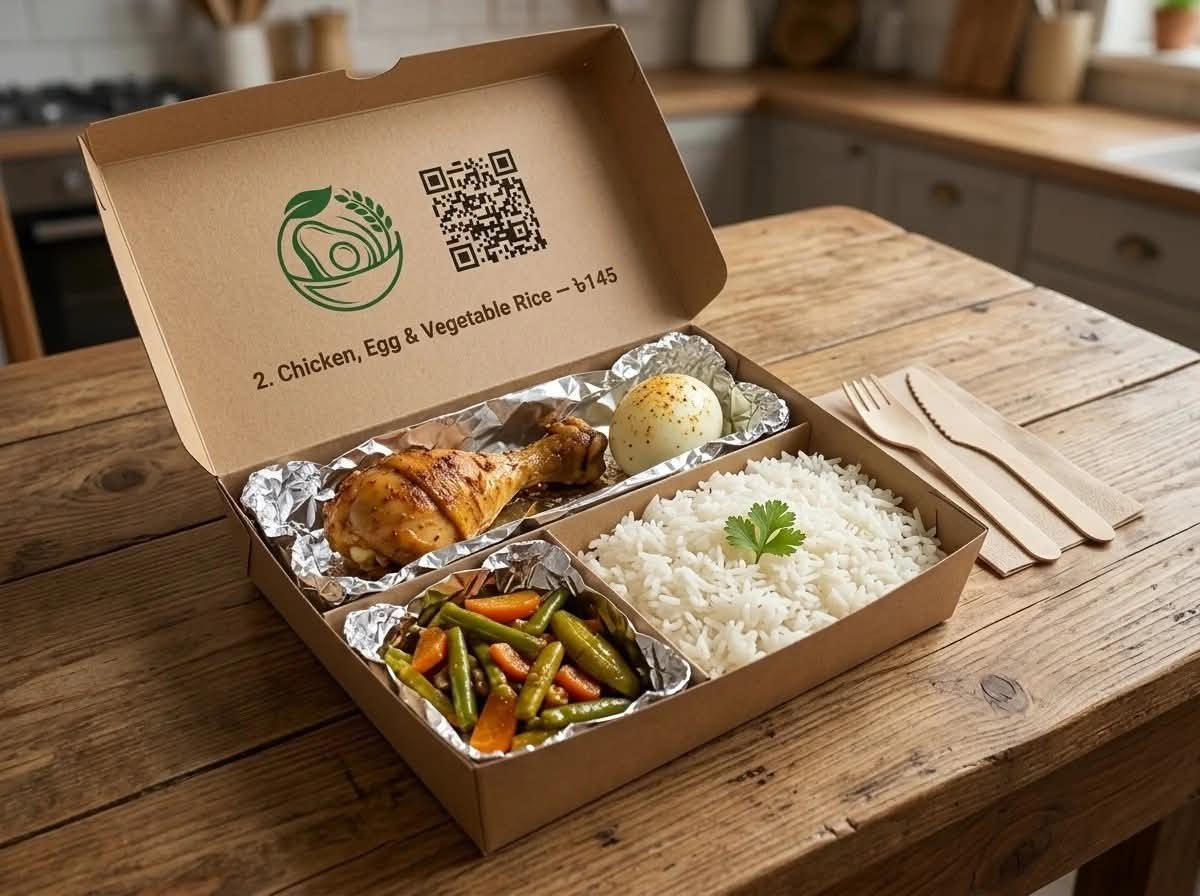
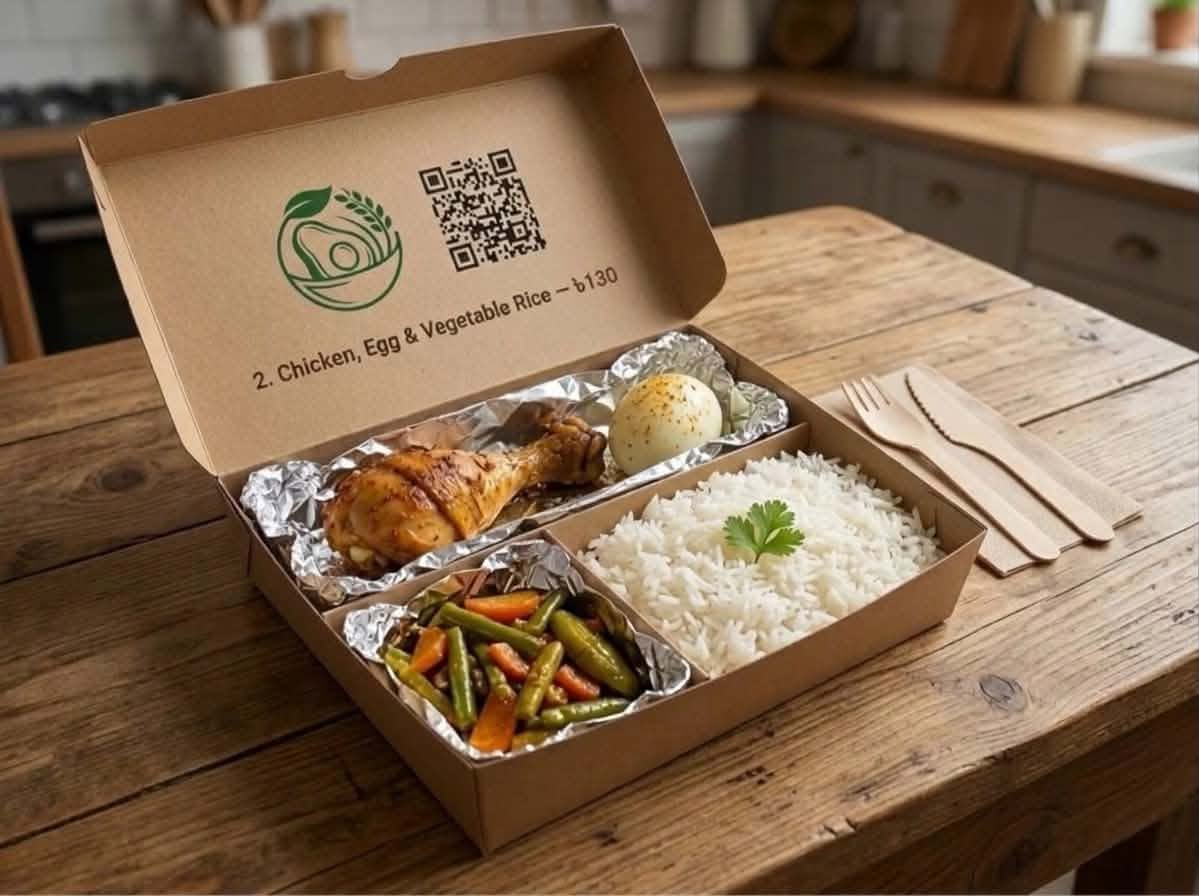
Food images has been updated.

diff --git a/index.html b/index.html
@@ -9,7 +9,7 @@
   <link rel="preconnect" href="https://fonts.googleapis.com">
   <link rel="preconnect" href="https://fonts.gstatic.com" crossorigin>
   <link href="https://fonts.googleapis.com/css2?family=DM+Mono:wght@400;500&family=Figtree:wght@400;500;600;700;800&family=Fraunces:ital,opsz,wght,SOFT,WONK@0,9..144,300..700,0..100,0..1;1,9..144,300..700,0..100,0..1&family=Hind+Siliguri:wght@400;500;600&display=swap" rel="stylesheet">
-  <link rel="stylesheet" href="assets/css/style.css?v=18">
+  <link rel="stylesheet" href="assets/css/style.css?v=19">
 </head>
 <body data-page="home">
   <header id="site-header"></header>
@@ -82,19 +82,19 @@
           <h2 data-split style="margin:18px 0 22px">The food you love,<br><em>made kinder to you.</em></h2>
           <p class="lede" data-reveal>Nutri Café isn't a diet. It's the everyday campus meal, rebuilt so it fuels you instead of weighing you down.</p>
           <ul class="pillars">
-            <li data-reveal><span class="pi" style="--c:var(--turmeric)"><svg viewBox="0 0 24 24" fill="none" stroke="currentColor" stroke-width="2" stroke-linecap="round"><path d="M12 3c-3.5 5-5 7.6-5 10a5 5 0 0 0 10 0c0-2.4-1.5-5-5-10z"/></svg></span><div><b>Less oil, measured</b><p>Every box gets a measured spoon of oil, not a pour. Our lunches use 10–12 ml; the salad bowl uses none.</p></div></li>
+            <li data-reveal><span class="pi" style="--c:var(--turmeric)"><svg viewBox="0 0 24 24" fill="none" stroke="currentColor" stroke-width="2" stroke-linecap="round"><path d="M12 3c-3.5 5-5 7.6-5 10a5 5 0 0 0 10 0c0-2.4-1.5-5-5-10z"/></svg></span><div><b>Less oil, measured</b><p>Every box gets a measured spoon of oil, not a pour. Our lunches use 8–12 ml; the salad bowl uses none.</p></div></li>
             <li data-reveal style="--d:.06s"><span class="pi" style="--c:var(--protein)"><svg viewBox="0 0 24 24" fill="none" stroke="currentColor" stroke-width="2"><circle cx="12" cy="12" r="8"/><path d="M12 4v8l6 5"/></svg></span><div><b>Balanced plates</b><p>Measured rice, a real portion of protein and vegetables, guided by Bangladesh's Food-Based Dietary Guidelines.</p></div></li>
             <li data-reveal style="--d:.12s"><span class="pi" style="--c:var(--fat)"><svg viewBox="0 0 24 24" fill="none" stroke="currentColor" stroke-width="2" stroke-linecap="round"><rect x="5" y="3" width="14" height="18" rx="2"/><path d="M8.5 8h7M8.5 12h7M8.5 16h4"/></svg></span><div><b>Food you can read</b><p>Calories, protein, carbs, fat and fibre beside every plate, so choosing well takes seconds.</p></div></li>
             <li data-reveal style="--d:.18s"><span class="pi" style="--c:var(--fibre)"><svg viewBox="0 0 24 24" fill="none" stroke="currentColor" stroke-width="2" stroke-linecap="round"><path d="M4 13c4 0 6-2 8-6 2 4 4 6 8 6M6 19h12"/></svg></span><div><b>Healthy every day, not once</b><p>From ৳50 - because good food only helps if you can afford to eat it daily.</p></div></li>
           </ul>
         </div>
         <div class="swap-card" data-reveal="scale" id="swap-card">
-          <span class="eyebrow">Same chicken rice, two kitchens</span>
+          <span class="eyebrow">Same chicken &amp; egg rice, two kitchens</span>
           <div class="sw-row heavy"><div class="sw-top"><span>Cooked with 3 tablespoons of oil</span><b data-s="heavy-k">0 kcal</b></div><div class="sw-bar"><i data-s="heavy-bar"></i></div><small data-s="heavy-f"></small></div>
-          <div class="sw-row light"><div class="sw-top"><span>Nutri Café: measured 10 ml</span><b data-s="light-k">0 kcal</b></div><div class="sw-bar"><i data-s="light-bar"></i></div><small data-s="light-f"></small></div>
-          <div class="sw-save"><b data-s="save">0</b><span>fewer calories, from the oil alone - with the same rice, chicken and vegetables.</span></div>
+          <div class="sw-row light"><div class="sw-top"><span>Nutri Café: measured 12 ml</span><b data-s="light-k">0 kcal</b></div><div class="sw-bar"><i data-s="light-bar"></i></div><small data-s="light-f"></small></div>
+          <div class="sw-save"><b data-s="save">0</b><span>fewer calories, from the oil alone - with the same rice, chicken, egg and vegetables.</span></div>
           <p class="note" style="margin:18px 0 0">Both calculated with our nutrition calculator from the same weighed recipe; only the oil changes.</p>
-          <a class="link-arrow" href="calculator.html?dish=chicken-rice" style="margin-top:14px">Try it yourself in the calculator <svg width="16" height="16" viewBox="0 0 24 24" fill="none" stroke="currentColor" stroke-width="2.2"><path d="M5 12h14M13 6l6 6-6 6"/></svg></a>
+          <a class="link-arrow" href="calculator.html?dish=egg-chicken-veggie-rice" style="margin-top:14px">Try it yourself in the calculator <svg width="16" height="16" viewBox="0 0 24 24" fill="none" stroke="currentColor" stroke-width="2.2"><path d="M5 12h14M13 6l6 6-6 6"/></svg></a>
         </div>
       </div>
     </section>
@@ -262,10 +262,10 @@
   <footer id="site-footer"></footer>
 
   <script src="https://cdn.jsdelivr.net/npm/lenis@1.1.13/dist/lenis.min.js"></script>
-  <script src="assets/js/site.js?v=18"></script>
-  <script src="assets/js/data.js?v=18"></script>
-  <script src="assets/js/render.js?v=18"></script>
-  <script src="assets/js/posts.js?v=18"></script>
-  <script src="assets/js/home.js?v=18"></script>
+  <script src="assets/js/site.js?v=19"></script>
+  <script src="assets/js/data.js?v=19"></script>
+  <script src="assets/js/render.js?v=19"></script>
+  <script src="assets/js/posts.js?v=19"></script>
+  <script src="assets/js/home.js?v=19"></script>
 </body>
 </html>

diff --git a/assets/js/data.js b/assets/js/data.js
@@ -257,33 +257,36 @@
       allergens: ["Milk (yogurt)", "Wheat (gluten)"],
     },
     {
-      slug: "chicken-rice",
-      name: "Chicken Rice",
-      bn: "চিকেন রাইস",
+      slug: "chicken-egg-salad",
+      name: "Chicken, Egg & Salad",
+      bn: "মুরগি, ডিম ও সালাদ",
       meal: "Lunch",
-      plate: "Balanced",
+      plate: "High-Protein",
       price: 99,
-      img: "chicken-veg-rice.jpg",
-      blurb: "Home-style chicken curry with a measured plate of rice and vegetables.",
-      story: "The lunch most students already love, rebuilt with a measured portion. The curry uses a fixed amount of oil, the rice is portioned by weight, and seasonal vegetables fill the rest of the plate - so the number on the label is the number on your plate.",
+      img: "chicken-egg-salad.jpg",
+      blurb: "Spiced chicken and a boiled egg with rice and a fresh cucumber-carrot salad.",
+      story: "A lighter-feeling lunch that still fills you up. A spiced chicken piece and a boiled egg sit beside a weighed portion of rice, with a crisp salad of cucumber and carrot and a wedge of lemon to squeeze over it.",
       ingredients: [
         { id: "rice_cooked", amount: 200, unit: "g" },
         { id: "chicken_bonein", amount: 125, unit: "g" },
-        { id: "mixed_veg", amount: 100, unit: "g" },
-        { id: "onion", amount: 20, unit: "g" },
+        { id: "egg", amount: 1, unit: "piece" },
+        { id: "cucumber", amount: 60, unit: "g" },
+        { id: "carrot", amount: 40, unit: "g" },
+        { id: "lemon", amount: 1, unit: "tsp" },
+        { id: "onion", amount: 15, unit: "g" },
         { id: "garlic", amount: 5, unit: "g" },
         { id: "ginger", amount: 5, unit: "g" },
         { id: "spice_mix", amount: 4, unit: "g" },
-        { id: "soybean_oil", amount: 10, unit: "ml" },
+        { id: "soybean_oil", amount: 8, unit: "ml" },
       ],
       steps: [
-        "Wash and cook the rice; portion 200 g of cooked rice per box.",
-        "Sauté onion, ginger and garlic in a measured 10 ml of oil.",
-        "Add spices and the chicken; cook covered until tender and the gravy thickens.",
-        "Lightly cook the seasonal vegetables with salt and turmeric.",
-        "Serve chicken, rice and vegetables in separate sections of the box.",
+        "Marinate the chicken with onion, ginger, garlic, spices and salt for 30 minutes.",
+        "Cook the chicken in a measured 8 ml of oil until golden and cooked through.",
+        "Boil the egg for 9 minutes, cool, peel and dust lightly with spice.",
+        "Slice the cucumber and carrot just before packing and add a lemon wedge.",
+        "Pack 200 g of cooked rice with the chicken, egg and salad in separate sections.",
       ],
-      allergens: [],
+      allergens: ["Egg"],
     },
     {
       slug: "egg-chicken-veggie-rice",
@@ -291,7 +294,7 @@
       bn: "ডিম, মুরগি ও সবজি ভাত",
       meal: "Lunch",
       plate: "High-Protein",
-      price: 145,
+      price: 130,
       img: "chicken-egg-veg-rice.jpg",
       blurb: "Rice with chicken, an egg and a generous portion of seasonal vegetables.",
       story: "Our most complete lunch box. Two protein sources - chicken and egg - sit beside rice and more vegetables than any other plate on the menu. A good pick for long lab days, sports practice or anyone trying to eat more protein.",

diff --git a/menu/chicken-egg-salad.html b/menu/chicken-egg-salad.html
@@ -3,22 +3,22 @@
 <head>
   <meta charset="utf-8">
   <meta name="viewport" content="width=device-width, initial-scale=1">
-  <title>Chicken Rice - Nutri Café</title>
-  <meta name="description" content="Chicken Rice (৳99): about 474 kcal, 26 g protein, 58 g carbs and 14 g fat per box, calculated from the Food Composition Table for Bangladesh. Ingredients, method and reviews.">
+  <title>Chicken, Egg & Salad - Nutri Café</title>
+  <meta name="description" content="Chicken, Egg & Salad (৳99): about 521 kcal, 33 g protein, 58 g carbs and 16 g fat per box, calculated from the Food Composition Table for Bangladesh. Ingredients, method and reviews.">
   <link rel="icon" href="../assets/img/favicon-64.png" type="image/png">
   <link rel="preconnect" href="https://fonts.googleapis.com">
   <link rel="preconnect" href="https://fonts.gstatic.com" crossorigin>
   <link href="https://fonts.googleapis.com/css2?family=DM+Mono:wght@400;500&family=Figtree:wght@400;500;600;700;800&family=Fraunces:ital,opsz,wght,SOFT,WONK@0,9..144,300..700,0..100,0..1;1,9..144,300..700,0..100,0..1&family=Hind+Siliguri:wght@400;500;600&display=swap" rel="stylesheet">
-  <link rel="stylesheet" href="../assets/css/style.css?v=18">
+  <link rel="stylesheet" href="../assets/css/style.css?v=19">
 </head>
-<body data-page="menu" data-root="../" data-dish="chicken-rice">
+<body data-page="menu" data-root="../" data-dish="chicken-egg-salad">
   <header id="site-header"></header>
-  <main id="dish"><noscript><div class="wrap" style="padding:160px 0"><h1>Chicken Rice</h1><p>৳99. Please enable JavaScript to see ingredients and nutrition.</p></div></noscript></main>
+  <main id="dish"><noscript><div class="wrap" style="padding:160px 0"><h1>Chicken, Egg & Salad</h1><p>৳99. Please enable JavaScript to see ingredients and nutrition.</p></div></noscript></main>
   <footer id="site-footer"></footer>
   <script src="https://cdn.jsdelivr.net/npm/lenis@1.1.13/dist/lenis.min.js"></script>
-  <script src="../assets/js/site.js?v=18"></script>
-  <script src="../assets/js/data.js?v=18"></script>
-  <script src="../assets/js/render.js?v=18"></script>
-  <script src="../assets/js/dish.js?v=18"></script>
+  <script src="../assets/js/site.js?v=19"></script>
+  <script src="../assets/js/data.js?v=19"></script>
+  <script src="../assets/js/render.js?v=19"></script>
+  <script src="../assets/js/dish.js?v=19"></script>
 </body>
 </html>

diff --git a/menu/egg-chicken-veggie-rice.html b/menu/egg-chicken-veggie-rice.html
@@ -4,21 +4,21 @@
   <meta charset="utf-8">
   <meta name="viewport" content="width=device-width, initial-scale=1">
   <title>Egg, Chicken & Veggie Rice - Nutri Café</title>
-  <meta name="description" content="Egg, Chicken & Veggie Rice (৳145): about 566 kcal, 34 g protein, 58 g carbs and 20 g fat per box, calculated from the Food Composition Table for Bangladesh. Ingredients, method and reviews.">
+  <meta name="description" content="Egg, Chicken & Veggie Rice (৳130): about 566 kcal, 34 g protein, 58 g carbs and 20 g fat per box, calculated from the Food Composition Table for Bangladesh. Ingredients, method and reviews.">
   <link rel="icon" href="../assets/img/favicon-64.png" type="image/png">
   <link rel="preconnect" href="https://fonts.googleapis.com">
   <link rel="preconnect" href="https://fonts.gstatic.com" crossorigin>
   <link href="https://fonts.googleapis.com/css2?family=DM+Mono:wght@400;500&family=Figtree:wght@400;500;600;700;800&family=Fraunces:ital,opsz,wght,SOFT,WONK@0,9..144,300..700,0..100,0..1;1,9..144,300..700,0..100,0..1&family=Hind+Siliguri:wght@400;500;600&display=swap" rel="stylesheet">
-  <link rel="stylesheet" href="../assets/css/style.css?v=18">
+  <link rel="stylesheet" href="../assets/css/style.css?v=19">
 </head>
 <body data-page="menu" data-root="../" data-dish="egg-chicken-veggie-rice">
   <header id="site-header"></header>
-  <main id="dish"><noscript><div class="wrap" style="padding:160px 0"><h1>Egg, Chicken & Veggie Rice</h1><p>৳145. Please enable JavaScript to see ingredients and nutrition.</p></div></noscript></main>
+  <main id="dish"><noscript><div class="wrap" style="padding:160px 0"><h1>Egg, Chicken & Veggie Rice</h1><p>৳130. Please enable JavaScript to see ingredients and nutrition.</p></div></noscript></main>
   <footer id="site-footer"></footer>
   <script src="https://cdn.jsdelivr.net/npm/lenis@1.1.13/dist/lenis.min.js"></script>
-  <script src="../assets/js/site.js?v=18"></script>
-  <script src="../assets/js/data.js?v=18"></script>
-  <script src="../assets/js/render.js?v=18"></script>
-  <script src="../assets/js/dish.js?v=18"></script>
+  <script src="../assets/js/site.js?v=19"></script>
+  <script src="../assets/js/data.js?v=19"></script>
+  <script src="../assets/js/render.js?v=19"></script>
+  <script src="../assets/js/dish.js?v=19"></script>
 </body>
 </html>

diff --git a/journal/hidden-oil-in-everyday-food.html b/journal/hidden-oil-in-everyday-food.html
@@ -9,7 +9,7 @@
   <link rel="preconnect" href="https://fonts.googleapis.com">
   <link rel="preconnect" href="https://fonts.gstatic.com" crossorigin>
   <link href="https://fonts.googleapis.com/css2?family=DM+Mono:wght@400;500&family=Figtree:wght@400;500;600;700;800&family=Fraunces:ital,opsz,wght,SOFT,WONK@0,9..144,300..700,0..100,0..1;1,9..144,300..700,0..100,0..1&family=Hind+Siliguri:wght@400;500;600&display=swap" rel="stylesheet">
-  <link rel="stylesheet" href="../assets/css/style.css?v=18">
+  <link rel="stylesheet" href="../assets/css/style.css?v=19">
 </head>
 <body data-page="journal" data-root="../" data-post="hidden-oil-in-everyday-food">
   <div class="read-progress"></div>
@@ -80,7 +80,7 @@
         <div class="factbox">
           <h4>How Nutri Café handles oil</h4>
           <ul>
-            <li>Oil is measured for every box - between 7 ml and 12 ml in our current lunch and breakfast plates, and none at all in the Egg, Chickpea &amp; Salad Bowl.</li>
+            <li>Oil is measured for every box - between 5 ml and 12 ml in our current lunch and breakfast plates, and none at all in the Egg, Chickpea &amp; Salad Bowl.</li>
             <li>That oil is counted in every label, so the fat figure you see includes it.</li>
             <li>Want to check a dish you cook at home? Use the <a href="../calculator.html">nutrition calculator</a> and add the oil you actually use.</li>
           </ul>
@@ -110,8 +110,8 @@
   </main>
   <footer id="site-footer"></footer>
   <script src="https://cdn.jsdelivr.net/npm/lenis@1.1.13/dist/lenis.min.js"></script>
-  <script src="../assets/js/site.js?v=18"></script>
-  <script src="../assets/js/posts.js?v=18"></script>
-  <script src="../assets/js/journal.js?v=18"></script>
+  <script src="../assets/js/site.js?v=19"></script>
+  <script src="../assets/js/posts.js?v=19"></script>
+  <script src="../assets/js/journal.js?v=19"></script>
 </body>
 </html>

diff --git a/journal/how-much-protein-do-students-need.html b/journal/how-much-protein-do-students-need.html
@@ -9,7 +9,7 @@
   <link rel="preconnect" href="https://fonts.googleapis.com">
   <link rel="preconnect" href="https://fonts.gstatic.com" crossorigin>
   <link href="https://fonts.googleapis.com/css2?family=DM+Mono:wght@400;500&family=Figtree:wght@400;500;600;700;800&family=Fraunces:ital,opsz,wght,SOFT,WONK@0,9..144,300..700,0..100,0..1;1,9..144,300..700,0..100,0..1&family=Hind+Siliguri:wght@400;500;600&display=swap" rel="stylesheet">
-  <link rel="stylesheet" href="../assets/css/style.css?v=18">
+  <link rel="stylesheet" href="../assets/css/style.css?v=19">
 </head>
 <body data-page="journal" data-root="../" data-post="how-much-protein-do-students-need">
   <div class="read-progress"></div>
@@ -87,7 +87,7 @@
           <h4>Protein on the Nutri Café menu</h4>
           <ul>
             <li>Egg, Chickpea &amp; Salad Bowl: ≈ 18 g for ৳50.</li>
-            <li>Egg, Chicken &amp; Veggie Rice: ≈ 34 g for ৳145.</li>
+            <li>Egg, Chicken &amp; Veggie Rice: ≈ 34 g for ৳130.</li>
             <li>Rohu Fish Protein Meal: ≈ 35 g for ৳190.</li>
             <li>See every dish compared side by side on the <a href="../menu.html">menu page</a>.</li>
           </ul>
@@ -117,8 +117,8 @@
   </main>
   <footer id="site-footer"></footer>
   <script src="https://cdn.jsdelivr.net/npm/lenis@1.1.13/dist/lenis.min.js"></script>
-  <script src="../assets/js/site.js?v=18"></script>
-  <script src="../assets/js/posts.js?v=18"></script>
-  <script src="../assets/js/journal.js?v=18"></script>
+  <script src="../assets/js/site.js?v=19"></script>
+  <script src="../assets/js/posts.js?v=19"></script>
+  <script src="../assets/js/journal.js?v=19"></script>
 </body>
 </html>

diff --git a/menu/egg-chickpea-salad-bowl.html b/menu/egg-chickpea-salad-bowl.html
@@ -9,16 +9,16 @@
   <link rel="preconnect" href="https://fonts.googleapis.com">
   <link rel="preconnect" href="https://fonts.gstatic.com" crossorigin>
   <link href="https://fonts.googleapis.com/css2?family=DM+Mono:wght@400;500&family=Figtree:wght@400;500;600;700;800&family=Fraunces:ital,opsz,wght,SOFT,WONK@0,9..144,300..700,0..100,0..1;1,9..144,300..700,0..100,0..1&family=Hind+Siliguri:wght@400;500;600&display=swap" rel="stylesheet">
-  <link rel="stylesheet" href="../assets/css/style.css?v=18">
+  <link rel="stylesheet" href="../assets/css/style.css?v=19">
 </head>
 <body data-page="menu" data-root="../" data-dish="egg-chickpea-salad-bowl">
   <header id="site-header"></header>
   <main id="dish"><noscript><div class="wrap" style="padding:160px 0"><h1>Egg, Chickpea & Salad Bowl</h1><p>৳50. Please enable JavaScript to see ingredients and nutrition.</p></div></noscript></main>
   <footer id="site-footer"></footer>
   <script src="https://cdn.jsdelivr.net/npm/lenis@1.1.13/dist/lenis.min.js"></script>
-  <script src="../assets/js/site.js?v=18"></script>
-  <script src="../assets/js/data.js?v=18"></script>
-  <script src="../assets/js/render.js?v=18"></script>
-  <script src="../assets/js/dish.js?v=18"></script>
+  <script src="../assets/js/site.js?v=19"></script>
+  <script src="../assets/js/data.js?v=19"></script>
+  <script src="../assets/js/render.js?v=19"></script>
+  <script src="../assets/js/dish.js?v=19"></script>
 </body>
 </html>

diff --git a/menu/tasty-chicken-breakfast.html b/menu/tasty-chicken-breakfast.html
@@ -9,16 +9,16 @@
   <link rel="preconnect" href="https://fonts.googleapis.com">
   <link rel="preconnect" href="https://fonts.gstatic.com" crossorigin>
   <link href="https://fonts.googleapis.com/css2?family=DM+Mono:wght@400;500&family=Figtree:wght@400;500;600;700;800&family=Fraunces:ital,opsz,wght,SOFT,WONK@0,9..144,300..700,0..100,0..1;1,9..144,300..700,0..100,0..1&family=Hind+Siliguri:wght@400;500;600&display=swap" rel="stylesheet">
-  <link rel="stylesheet" href="../assets/css/style.css?v=18">
+  <link rel="stylesheet" href="../assets/css/style.css?v=19">
 </head>
 <body data-page="menu" data-root="../" data-dish="tasty-chicken-breakfast">
   <header id="site-header"></header>
   <main id="dish"><noscript><div class="wrap" style="padding:160px 0"><h1>Tasty Chicken Breakfast</h1><p>৳70. Please enable JavaScript to see ingredients and nutrition.</p></div></noscript></main>
   <footer id="site-footer"></footer>
   <script src="https://cdn.jsdelivr.net/npm/lenis@1.1.13/dist/lenis.min.js"></script>
-  <script src="../assets/js/site.js?v=18"></script>
-  <script src="../assets/js/data.js?v=18"></script>
-  <script src="../assets/js/render.js?v=18"></script>
-  <script src="../assets/js/dish.js?v=18"></script>
+  <script src="../assets/js/site.js?v=19"></script>
+  <script src="../assets/js/data.js?v=19"></script>
+  <script src="../assets/js/render.js?v=19"></script>
+  <script src="../assets/js/dish.js?v=19"></script>
 </body>
 </html>

diff --git a/menu/rohu-fish-protein-meal.html b/menu/rohu-fish-protein-meal.html
@@ -9,16 +9,16 @@
   <link rel="preconnect" href="https://fonts.googleapis.com">
   <link rel="preconnect" href="https://fonts.gstatic.com" crossorigin>
   <link href="https://fonts.googleapis.com/css2?family=DM+Mono:wght@400;500&family=Figtree:wght@400;500;600;700;800&family=Fraunces:ital,opsz,wght,SOFT,WONK@0,9..144,300..700,0..100,0..1;1,9..144,300..700,0..100,0..1&family=Hind+Siliguri:wght@400;500;600&display=swap" rel="stylesheet">
-  <link rel="stylesheet" href="../assets/css/style.css?v=18">
+  <link rel="stylesheet" href="../assets/css/style.css?v=19">
 </head>
 <body data-page="menu" data-root="../" data-dish="rohu-fish-protein-meal">
   <header id="site-header"></header>
   <main id="dish"><noscript><div class="wrap" style="padding:160px 0"><h1>Rohu Fish Protein Meal</h1><p>৳190. Please enable JavaScript to see ingredients and nutrition.</p></div></noscript></main>
   <footer id="site-footer"></footer>
   <script src="https://cdn.jsdelivr.net/npm/lenis@1.1.13/dist/lenis.min.js"></script>
-  <script src="../assets/js/site.js?v=18"></script>
-  <script src="../assets/js/data.js?v=18"></script>
-  <script src="../assets/js/render.js?v=18"></script>
-  <script src="../assets/js/dish.js?v=18"></script>
+  <script src="../assets/js/site.js?v=19"></script>
+  <script src="../assets/js/data.js?v=19"></script>
+  <script src="../assets/js/render.js?v=19"></script>
+  <script src="../assets/js/dish.js?v=19"></script>
 </body>
 </html>

diff --git a/menu/chicken-vegetable-wrap.html b/menu/chicken-vegetable-wrap.html
@@ -9,16 +9,16 @@
   <link rel="preconnect" href="https://fonts.googleapis.com">
   <link rel="preconnect" href="https://fonts.gstatic.com" crossorigin>
   <link href="https://fonts.googleapis.com/css2?family=DM+Mono:wght@400;500&family=Figtree:wght@400;500;600;700;800&family=Fraunces:ital,opsz,wght,SOFT,WONK@0,9..144,300..700,0..100,0..1;1,9..144,300..700,0..100,0..1&family=Hind+Siliguri:wght@400;500;600&display=swap" rel="stylesheet">
-  <link rel="stylesheet" href="../assets/css/style.css?v=18">
+  <link rel="stylesheet" href="../assets/css/style.css?v=19">
 </head>
 <body data-page="menu" data-root="../" data-dish="chicken-vegetable-wrap">
   <header id="site-header"></header>
   <main id="dish"><noscript><div class="wrap" style="padding:160px 0"><h1>Chicken-Vegetable Wrap</h1><p>৳80. Please enable JavaScript to see ingredients and nutrition.</p></div></noscript></main>
   <footer id="site-footer"></footer>
   <script src="https://cdn.jsdelivr.net/npm/lenis@1.1.13/dist/lenis.min.js"></script>
-  <script src="../assets/js/site.js?v=18"></script>
-  <script src="../assets/js/data.js?v=18"></script>
-  <script src="../assets/js/render.js?v=18"></script>
-  <script src="../assets/js/dish.js?v=18"></script>
+  <script src="../assets/js/site.js?v=19"></script>
+  <script src="../assets/js/data.js?v=19"></script>
+  <script src="../assets/js/render.js?v=19"></script>
+  <script src="../assets/js/dish.js?v=19"></script>
 </body>
 </html>

diff --git a/calculator.html b/calculator.html
@@ -9,7 +9,7 @@
   <link rel="preconnect" href="https://fonts.googleapis.com">
   <link rel="preconnect" href="https://fonts.gstatic.com" crossorigin>
   <link href="https://fonts.googleapis.com/css2?family=DM+Mono:wght@400;500&family=Figtree:wght@400;500;600;700;800&family=Fraunces:ital,opsz,wght,SOFT,WONK@0,9..144,300..700,0..100,0..1;1,9..144,300..700,0..100,0..1&family=Hind+Siliguri:wght@400;500;600&display=swap" rel="stylesheet">
-  <link rel="stylesheet" href="assets/css/style.css?v=18">
+  <link rel="stylesheet" href="assets/css/style.css?v=19">
 </head>
 <body data-page="calculator">
   <header id="site-header"></header>
@@ -155,10 +155,10 @@
   </main>
   <footer id="site-footer"></footer>
   <script src="https://cdn.jsdelivr.net/npm/lenis@1.1.13/dist/lenis.min.js"></script>
-  <script src="assets/js/site.js?v=18"></script>
-  <script src="assets/js/data.js?v=18"></script>
-  <script src="assets/js/render.js?v=18"></script>
-  <script src="assets/js/health.js?v=18"></script>
-  <script src="assets/js/calc.js?v=18"></script>
+  <script src="assets/js/site.js?v=19"></script>
+  <script src="assets/js/data.js?v=19"></script>
+  <script src="assets/js/render.js?v=19"></script>
+  <script src="assets/js/health.js?v=19"></script>
+  <script src="assets/js/calc.js?v=19"></script>
 </body>
 </html>

diff --git a/menu.html b/menu.html
@@ -9,7 +9,7 @@
   <link rel="preconnect" href="https://fonts.googleapis.com">
   <link rel="preconnect" href="https://fonts.gstatic.com" crossorigin>
   <link href="https://fonts.googleapis.com/css2?family=DM+Mono:wght@400;500&family=Figtree:wght@400;500;600;700;800&family=Fraunces:ital,opsz,wght,SOFT,WONK@0,9..144,300..700,0..100,0..1;1,9..144,300..700,0..100,0..1&family=Hind+Siliguri:wght@400;500;600&display=swap" rel="stylesheet">
-  <link rel="stylesheet" href="assets/css/style.css?v=18">
+  <link rel="stylesheet" href="assets/css/style.css?v=19">
 </head>
 <body data-page="menu">
   <header id="site-header"></header>
@@ -64,9 +64,9 @@
   </main>
   <footer id="site-footer"></footer>
   <script src="https://cdn.jsdelivr.net/npm/lenis@1.1.13/dist/lenis.min.js"></script>
-  <script src="assets/js/site.js?v=18"></script>
-  <script src="assets/js/data.js?v=18"></script>
-  <script src="assets/js/render.js?v=18"></script>
+  <script src="assets/js/site.js?v=19"></script>
+  <script src="assets/js/data.js?v=19"></script>
+  <script src="assets/js/render.js?v=19"></script>
   <script>
   (function () {
     const { $, $$ } = NCUI, { MENU } = NC, { dishCard, plateClass, r0, r1 } = NCRender;
